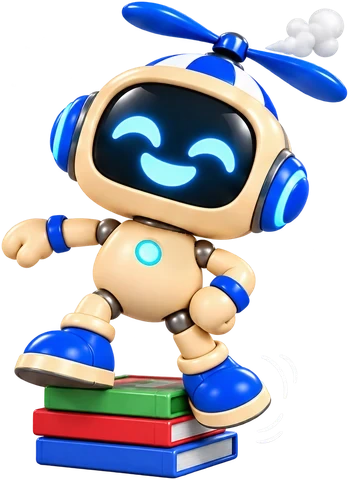
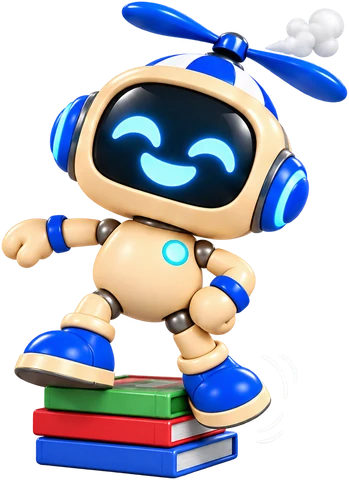
IAmiguinho: luz do peito centralizada só nas poses de frente, conferida pelas juntas
Claude-Session: https://claude.ai/code/session_01EzS9DxgjdBzP7RojM8YLwB

Changed region(s): [[0.3725, 0.4688, 0.5731, 0.5625]]

diff --git a/src/lib/iamiguinhoTela.ts b/src/lib/iamiguinhoTela.ts
@@ -12,16 +12,16 @@ export const TELA: Record<string, { x: number; y: number; w: number; a: number }
   'cara-sorriso-confiante': { x: 40.89, y: 63.47, w: 58.85, a: 0.0 },
   'cara-surpreso': { x: 39.58, y: 63.56, w: 58.33, a: 0.0 },
   'cara-tonto': { x: 41.2, y: 63.5, w: 59.55, a: 3.6 },
-  'pose-acenando': { x: 42.19, y: 35.71, w: 52.36, a: -9.0 },
+  'pose-acenando': { x: 42.2, y: 35.71, w: 52.35, a: -8.7 },
   'pose-atrasado': { x: 59.73, y: 36.72, w: 42.87, a: 12.5 },
   'pose-cabo': { x: 47.38, y: 39.75, w: 43.85, a: -11.3 },
   'pose-controle': { x: 49.65, y: 43.56, w: 52.35, a: -14.0 },
-  'pose-dormindo': { x: 49.68, y: 43.3, w: 55.71, a: -7.1 },
+  'pose-dormindo': { x: 49.67, y: 43.3, w: 55.75, a: -7.1 },
   'pose-espiando': { x: 60.68, y: 42.22, w: 35.23, a: 23.2 },
   'pose-espiando-placa': { x: 60.68, y: 42.22, w: 35.23, a: 23.2 },
   'pose-heroi': { x: 50.26, y: 29.68, w: 45.64, a: 16.7 },
   'pose-mapa': { x: 46.03, y: 36.22, w: 50.54, a: 15.9 },
-  'pose-pacote': { x: 50.24, y: 37.09, w: 54.62, a: 8.1 },
+  'pose-pacote': { x: 50.27, y: 37.09, w: 54.66, a: 8.1 },
   'pose-placa': { x: 48.88, y: 33.33, w: 51.82, a: 0.0 },
   'pose-planando': { x: 47.49, y: 39.53, w: 41.81, a: 18.4 },
   'pose-trofeu': { x: 40.72, y: 36.63, w: 36.9, a: -26.6 },

diff --git a/art/iamiguinho/centralizar-luz.py b/art/iamiguinho/centralizar-luz.py
@@ -1,6 +1,9 @@
-# IAmiguinho: a luz azul do peito fica no centro do tronco. Nas imagens geradas ela saiu deslocada para um lado; este
-# script acha a luz (o círculo azul-claro cercado de bege), apaga ela com inpainting e redesenha no meio do tronco,
-# na mesma altura. Poses em que o peito está escondido (controle, mapa, placa, espiando) ficam como estão.
+# IAmiguinho: a luz azul do peito fica no centro do tronco. Nas poses de frente das imagens geradas ela saiu
+# deslocada para um lado; este script acha a luz (o círculo azul-claro cercado de bege), apaga e redesenha na linha
+# do meio do tronco, na mesma altura. A linha do meio de cada pose foi conferida uma a uma: o ponto médio entre as
+# juntas dos ombros e entre as do quadril (ALVO, em pixels da imagem original).
+# Nas poses de três quartos (atrasado, herói, planando, troféu) o tronco está virado e a luz original já acompanha o
+# giro; elas ficam como estão, assim como as poses em que o peito está escondido.
 # Rode antes do separar-helice.py e do limpar-tela.py:
 #   python3 art/iamiguinho/centralizar-luz.py && python3 art/iamiguinho/separar-helice.py && python3 art/iamiguinho/limpar-tela.py
 # Muda public/brand/iamiguinho/pose-*.webp no lugar. Rodar de novo não muda nada (a luz já está no centro).
@@ -17,10 +20,12 @@ def beige_ou_luz(nucleo, beige, luz, d0, R):
 ROOT = os.path.join(os.path.dirname(os.path.abspath(__file__)), '..', '..')
 PASTA = os.path.join(ROOT, 'public', 'brand', 'iamiguinho')
 nomes = sys.argv[1:] or None
+ALVO = {'pose-acenando': 171, 'pose-cabo': 212, 'pose-dormindo': 181, 'pose-pacote': 139}
 
 for path in sorted(glob.glob(os.path.join(PASTA, 'pose-*.webp'))):
     nome = os.path.basename(path)[:-5]
     if nomes and nome not in nomes: continue
+    if nome not in ALVO: continue
     im = np.array(Image.open(path).convert('RGBA')); H, W = im.shape[:2]
     rgb = np.ascontiguousarray(im[:, :, :3]); a = im[:, :, 3]
     hsv = cv2.cvtColor(rgb, cv2.COLOR_RGB2HSV)
@@ -38,17 +43,8 @@ for path in sorted(glob.glob(os.path.join(PASTA, 'pose-*.webp'))):
         if cerca > 0.45 and (melhor is None or cerca > melhor[0]): melhor = (cerca, i, r0)
     if not melhor: print(nome, 'peito escondido'); continue
     _, i, r = melhor; lx, ly = cen[i]
-    # O meio do tronco: média dos trechos bege que passam sob a luz, um pouco abaixo dela.
-    centros = []
-    for row in range(int(ly + r * 1.6), int(ly + r * 3.0)):
-        xs = np.where(beige[row])[0]
-        if not len(xs): continue
-        segs = np.split(xs, np.where(np.diff(xs) > 3)[0] + 1)
-        seg = [sg for sg in segs if sg[0] - r <= lx <= sg[-1] + r]
-        if seg and seg[0][-1] - seg[0][0] > r * 4: centros.append((seg[0][0] + seg[0][-1]) / 2)
-    if not centros: print(nome, 'tronco não achado'); continue
-    cx = float(np.median(centros))
-    if abs(cx - lx) < r * 0.5: print(nome, 'já no centro'); continue
+    cx = float(ALVO[nome])
+    if abs(cx - lx) < 3: print(nome, 'já no centro'); continue
     R = r * 1.5
     # Apaga a luz antiga: o plástico bege em volta é liso, então o buraco é preenchido com uma superfície suave
     # (polinômio de grau 2 por canal) ajustada só nos pixels bege ao redor; as juntas escuras não vazam para dentro.
